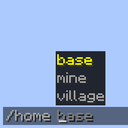
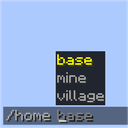
Limit Minecraft to 26.2.x on NeoForge and pin the conventions at 2.4.16
NeoForge now uses the conventions' ${minecraft_version_range}, matching Fabric's ~${minecraft_version}; loaders and libraries stay open-ended.

The icon is now square at a power of two (512 or 1024 px); docs/icon/README.md records how it was rescaled.

diff --git a/docs/icon/provenance/native_scale.py b/docs/icon/provenance/native_scale.py
@@ -1,0 +1,68 @@
+#!/usr/bin/env python3
+"""Turn the native capture crop into the shipped square icon (Pillow 12.3.0).
+
+The crop is Minecraft GUI pixel art: every GUI pixel is a BLOCK x BLOCK square of one
+colour. This script recovers the native GUI-pixel image by taking each block's majority
+colour (ties, which only occur on the faint sky-gradient seams, go to the candidate
+colour that is most common in the surrounding 3x3 blocks, then to the smallest RGB
+value), enlarges it FACTOR times with NEAREST, centres it on a transparent CANVAS x CANVAS
+square and writes ../icon.png. The mod's shipped copies are that icon resized to 128x128
+with LANCZOS.
+
+Run from docs/icon/provenance: python3 native_scale.py
+"""
+from collections import Counter
+from pathlib import Path
+
+from PIL import Image
+
+HERE = Path(__file__).resolve().parent
+REPO = HERE.parents[2]
+SOURCE = HERE / "frames" / "simplehomes-home-wide-full.png"
+BOX = (0, 1820, 340, 2160)  # the delivered 340x340 capture crop
+BLOCK, FACTOR, CANVAS = 4, 6, 512  # GUI scale 4 -> 85x85 native, x6 = 510 on 512
+SHIPPED = (
+    "common/src/main/resources/assets/simplehomes/icon.png",
+    "fabric/src/gametest/resources/assets/simplehomes/icon.png",
+)
+
+
+def native(crop):
+    w, h = crop.size
+    assert w % BLOCK == 0 and h % BLOCK == 0, (w, h, BLOCK)
+    px = crop.load()
+    nw, nh = w // BLOCK, h // BLOCK
+    counts = [
+        [Counter(px[bx * BLOCK + i, by * BLOCK + j] for i in range(BLOCK) for j in range(BLOCK)) for bx in range(nw)]
+        for by in range(nh)
+    ]
+    out = Image.new("RGB", (nw, nh))
+    op = out.load()
+    ties = 0
+    for by in range(nh):
+        for bx in range(nw):
+            c = counts[by][bx]
+            top = max(c.values())
+            cands = [col for col, n in c.items() if n == top]
+            if len(cands) > 1:
+                ties += 1
+                around = Counter()
+                for y in range(max(0, by - 1), min(nh, by + 2)):
+                    for x in range(max(0, bx - 1), min(nw, bx + 2)):
+                        around.update(counts[y][x])
+                cands.sort(key=lambda col: (-around[col], col))
+            op[bx, by] = cands[0]
+    return out, ties
+
+
+crop = Image.open(SOURCE).convert("RGB")
+if BOX is not None:
+    crop = crop.crop(BOX)
+small, ties = native(crop)
+big = small.resize((small.width * FACTOR, small.height * FACTOR), Image.Resampling.NEAREST)
+icon = Image.new("RGBA", (CANVAS, CANVAS))
+icon.paste(big, ((CANVAS - big.width) // 2, (CANVAS - big.height) // 2))
+icon.save(HERE.parent / "icon.png")
+for rel in SHIPPED:
+    icon.resize((128, 128), Image.Resampling.LANCZOS).save(REPO / rel)
+print(f"native {small.size}, {ties} tied blocks, x{FACTOR} -> {big.size} centred on {CANVAS}x{CANVAS}")

diff --git a/docs/icon/README.md b/docs/icon/README.md
@@ -2,11 +2,15 @@
 
 ## What this is
 
-The mod's icon: `icon.png` — 340x340 RGB PNG, 2 187 bytes,
[1 lines of base64/hex data omitted]
+The mod's icon: `icon.png` — 512x512 RGBA PNG, 3 458 bytes,
[1 lines of base64/hex data omitted]
 
-It is a real in-game screenshot of the mod's `/home` tab-completion, cropped to a square at
-native GUI scale 4. No resize, no resampling, no interpolation, no compositing, no padding.
+It is a real in-game screenshot of the mod's `/home` tab-completion: a 340x340 square crop
+captured at GUI scale 4, reduced to its native 85x85 GUI pixels, enlarged 6x with NEAREST to
+510x510 and centred on a transparent 512x512 canvas (1 px margin). No interpolation, no
+compositing. The mod ships 128x128 LANCZOS reductions of `icon.png` at
+`common/src/main/resources/assets/simplehomes/icon.png` and
+`fabric/src/gametest/resources/assets/simplehomes/icon.png`.
 
 ## How it was made
 
@@ -29,11 +33,19 @@ native GUI scale 4. No resize, no resampling, no interpolation, no compositing, 
 The three homes `base`, `mine` and `village` existed in that world, so the client draws its
 native completion `/home base` in the input line plus the three completion entries above it.
 
-The delivered image is the exact integer crop `(0, 1820, 340, 2160)` of
-`frames/simplehomes-home-wide-full.png`. Verified while creating this provenance: cropping the
-shipped frame to that box reproduces `icon.png` byte for byte.
+The capture crop is the exact integer crop `(0, 1820, 340, 2160)` of
+`frames/simplehomes-home-wide-full.png` (340x340 RGB, sha256 `9f7e449e…`; until 2026-10-02 it
+was shipped as `icon.png` itself). Verified while creating this provenance: cropping the
+shipped frame to that box reproduces that crop byte for byte.
 
-Layout inside the delivered image (all measured, native pixels): the completion panel occupies
+**Native-scale enlargement (2026-10-02).** The icon rule is square, a power of two, 512 or
+1024 px. The crop is pixel art: 11 colours, and every 4x4 block (GUI scale 4, aligned with the
+crop) is a single colour. `native_scale.py` takes each block's colour to recover the native
+85x85 image, enlarges it by the largest integer factor that fits 512 (6x, 510x510) with
+NEAREST, and centres it on a transparent 512x512 canvas. A LANCZOS 340→512 resize was
+rejected because it blurs every GUI pixel edge.
+
+Layout inside the capture crop (all measured, crop pixels): the completion panel occupies
 `x 148..279, y 136..279` (132x144 px, three 48 px rows); the panel's own dark background is
 included in the crop, so the sky margins are 148 px left and 60 px right of the panel. The
 native chat input line below the panel is included; its full-width background bar runs to the
@@ -45,6 +57,7 @@ right edge of the crop, exactly as in the source frame.
 |---|---|
 | `manifest.json` | Round-3 delivery record for the three crops2 icons, including this one's `fixedFrom` note and measured panel box |
 | `frames/simplehomes-home-wide-full.png` | **The native 5120x2160 F2 screenshot this icon is cropped from** |
+| `native_scale.py` | **The script that writes `icon.png`** from the frame and crop box (native 85x85 recovery, 6x NEAREST, centred on 512x512) and the two shipped 128x128 copies |
 | `crop.py` | **The script that writes the three 340x340 crops** (`make_crop`; for SimpleHomes the delivered box is the bottom-left anchored one, see Notes) |
 | `capture_scene.py` | The capture driver: scene verification, chat clearing, typing, F2, screenshot copy |
 | `prepare.py` | Builds this session's runtime from the BrainageHUD capture world (world, configs, options, argfile, launcher) |
@@ -81,7 +94,7 @@ python3 crop.py && python3 verify.py                   # 340x340 crops + verific
 ```
 
 For this icon specifically, `crop.py`'s `make_crop("simplehomes", …)` reproduces the input to
-`frames/`; the delivered file is the bottom-left anchored crop of that frame (Notes):
+`frames/`; the capture crop is the bottom-left anchored crop of that frame (Notes):
 
 ```sh
 python3 - <<'PY'
@@ -89,6 +102,12 @@ from PIL import Image
 Image.open('frames/simplehomes-home-wide-full.png').convert('RGB') \
      .crop((0, 1820, 340, 2160)).save('simplehomes-autocomplete-square.png')
 PY
+```
+
+Then write `icon.png` and the shipped copies (Pillow 12.3.0, from `docs/icon/provenance`):
+
+```sh
+python3 native_scale.py    # prints: native (85, 85), 0 tied blocks, x6 -> (510, 510) centred on 512x512
 ```
 
 Prerequisites not shipped: the Minecraft 26.2 client, Fabric Loader and the mod jars named in
@@ -101,10 +120,10 @@ session's world, which is not part of this provenance.
   file.** Both record the first attempt: box `[44, 1764, 384, 2104]`, equal 104/104 px sky
   margins, output sha256 `c16a24fc…`. That framing clipped the native input command text at
   `x` 16, so the image was re-cropped anchored to the bottom-left of the frame — box
-  `[0, 1820, 340, 2160]`, sha256 `9f7e449e…`, which is what is delivered and what
+  `[0, 1820, 340, 2160]`, sha256 `9f7e449e…`, which is the capture crop `icon.png` is made from and what
   `manifest.json` records (with `fixedFrom: evidence/simplehomes-autocomplete-square-previous.png`).
   The superseded PNG itself is **not** copied into this provenance.
-* Consequence of that re-crop: the sky margins of the delivered image are 148 px left and
+* Consequence of that re-crop: the sky margins of the capture crop are 148 px left and
   60 px right of the panel — *not* equal. The three completion entries and the typed input
   line are complete and unclipped, which was the deciding requirement.
 * The SimpleHomes completion list is drawn at the caret after the typed `/home `, so its panel
